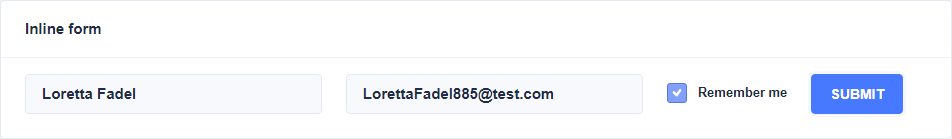
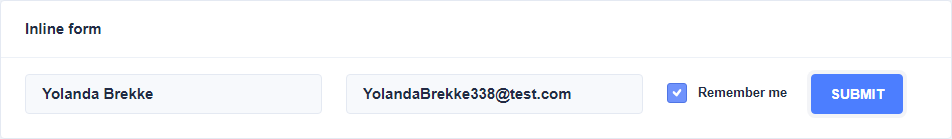
Advanced: Lesson 77. Docker Container

Changed region(s): [[0.3655, 0.6331, 0.6092, 0.7482], [0.0305, 0.6331, 0.1828, 0.7194]]

diff --git a/tests/web/uiComponents.spec.ts b/tests/web/uiComponents.spec.ts
@@ -32,29 +32,31 @@ test.describe("Form Layout page", () => {
         await expect(usingTheGridEmailInput).toHaveValue("yevhe@gmail.com");
     });
 
-    test("radio-buttons", async ({ page }) => {
-        const usingTheGridForm = page.locator("nb-card", { hasText: "Using the Grid" });
+    // test("radio-buttons", async ({ page }) => {
+    //     const usingTheGridForm = page.locator("nb-card", { hasText: "Using the Grid" });
 
-        // flow 1
-        // await usingTheGridForm.getByLabel('Option 1').check({ force: true });
+    //     // flow 1
+    //     // await usingTheGridForm.getByLabel('Option 1').check({ force: true });
 
-        // flow 2
-        await usingTheGridForm.getByRole("radio", { name: "Option 1" }).check({ force: true });
+    //     // flow 2
+    //     await expect(usingTheGridForm).toBeVisible();
+    //     await usingTheGridForm.getByRole("radio", { name: "Option 1" }).check({ force: true });
 
-        // visual test
-        await expect(usingTheGridForm).toHaveScreenshot({ maxDiffPixels: 10 });
+    //     // visual test
+    //     await page.waitForTimeout(500);
+    //     await expect(usingTheGridForm).toHaveScreenshot({ maxDiffPixels: 20, animations: "disabled" });
 
-        //generic assertion
-        // const radioStatus = await usingTheGridForm.getByRole('radio', { name: 'Option 1' }).isChecked();
-        // expect(radioStatus).toBeTruthy();
+    //     //generic assertion
+    //     // const radioStatus = await usingTheGridForm.getByRole('radio', { name: 'Option 1' }).isChecked();
+    //     // expect(radioStatus).toBeTruthy();
 
-        //locator assertion
-        // await expect(usingTheGridForm.getByRole("radio", { name: "Option 1" })).toBeChecked();
+    //     //locator assertion
+    //     // await expect(usingTheGridForm.getByRole("radio", { name: "Option 1" })).toBeChecked();
 
-        // await usingTheGridForm.getByRole("radio", { name: "Option 2" }).check({ force: true });
-        // await expect(usingTheGridForm.getByRole("radio", { name: "Option 2" })).toBeChecked();
-        // await expect(usingTheGridForm.getByRole("radio", { name: "Option 1" })).not.toBeChecked();
-    });
+    //     // await usingTheGridForm.getByRole("radio", { name: "Option 2" }).check({ force: true });
+    //     // await expect(usingTheGridForm.getByRole("radio", { name: "Option 2" })).toBeChecked();
+    //     // await expect(usingTheGridForm.getByRole("radio", { name: "Option 1" })).not.toBeChecked();
+    // });
 });
 
 test("Checkboxes", async ({ page }) => {

diff --git a/playwright.config.ts b/playwright.config.ts
@@ -125,4 +125,9 @@ export default defineConfig<TestOptions>({
         //     use: { ...devices["Desktop Chrome"], baseURL: "http://localhost:4202/" },
         // },
     ],
+    webServer: {
+        command: "cd pw-practice-app && npm start",
+        url: "http://localhost:4200",
+        timeout: 120 * 1000,
+    },
 });

diff --git a/README.md b/README.md
@@ -15,8 +15,13 @@ This repository contains practical tasks from the course **Playwright: Web Autom
 
 ## Structure:
 
-- **/tests** — automated tests
-- **/src** - pom
+- **/tests**
+    - **/.authSetup**
+    - **/api**
+    - **/web**
+- **/src**
+    - **/pages**
+    - **/test-data**
 
 ## How to use:
 
@@ -24,9 +29,17 @@ This repository contains practical tasks from the course **Playwright: Web Autom
     - Run: `git clone https://github.com/bondar-artem/pw-practice-app.git`
     - Navigate to the folder.
     - Run `npm install --force` to install dependencies.
+    - Run `npm start` to run the app.
 
 2. Create an empty folder for the automated tests:
     - Clone this repository with the automated tests.
     - Run `npm install` to install dependencies.
     - Run `npm start` to start the application.
     - Run the tests using `npx playwright test`.
+
+        2.1 How to run using the docker:
+        - Download and install docker from `https://www.docker.com/`.
+        - Run docker on your local machine.
+        - Run `docker build -t playwright-zero-to-hero-udemy-by-bondar .` to create docker image.
+        - Run `docker run -it playwright-zero-to-hero-udemy-by-bondar` to run docker image.
+        - Run `docker-compose up --build` to build and run tests at the same time.
